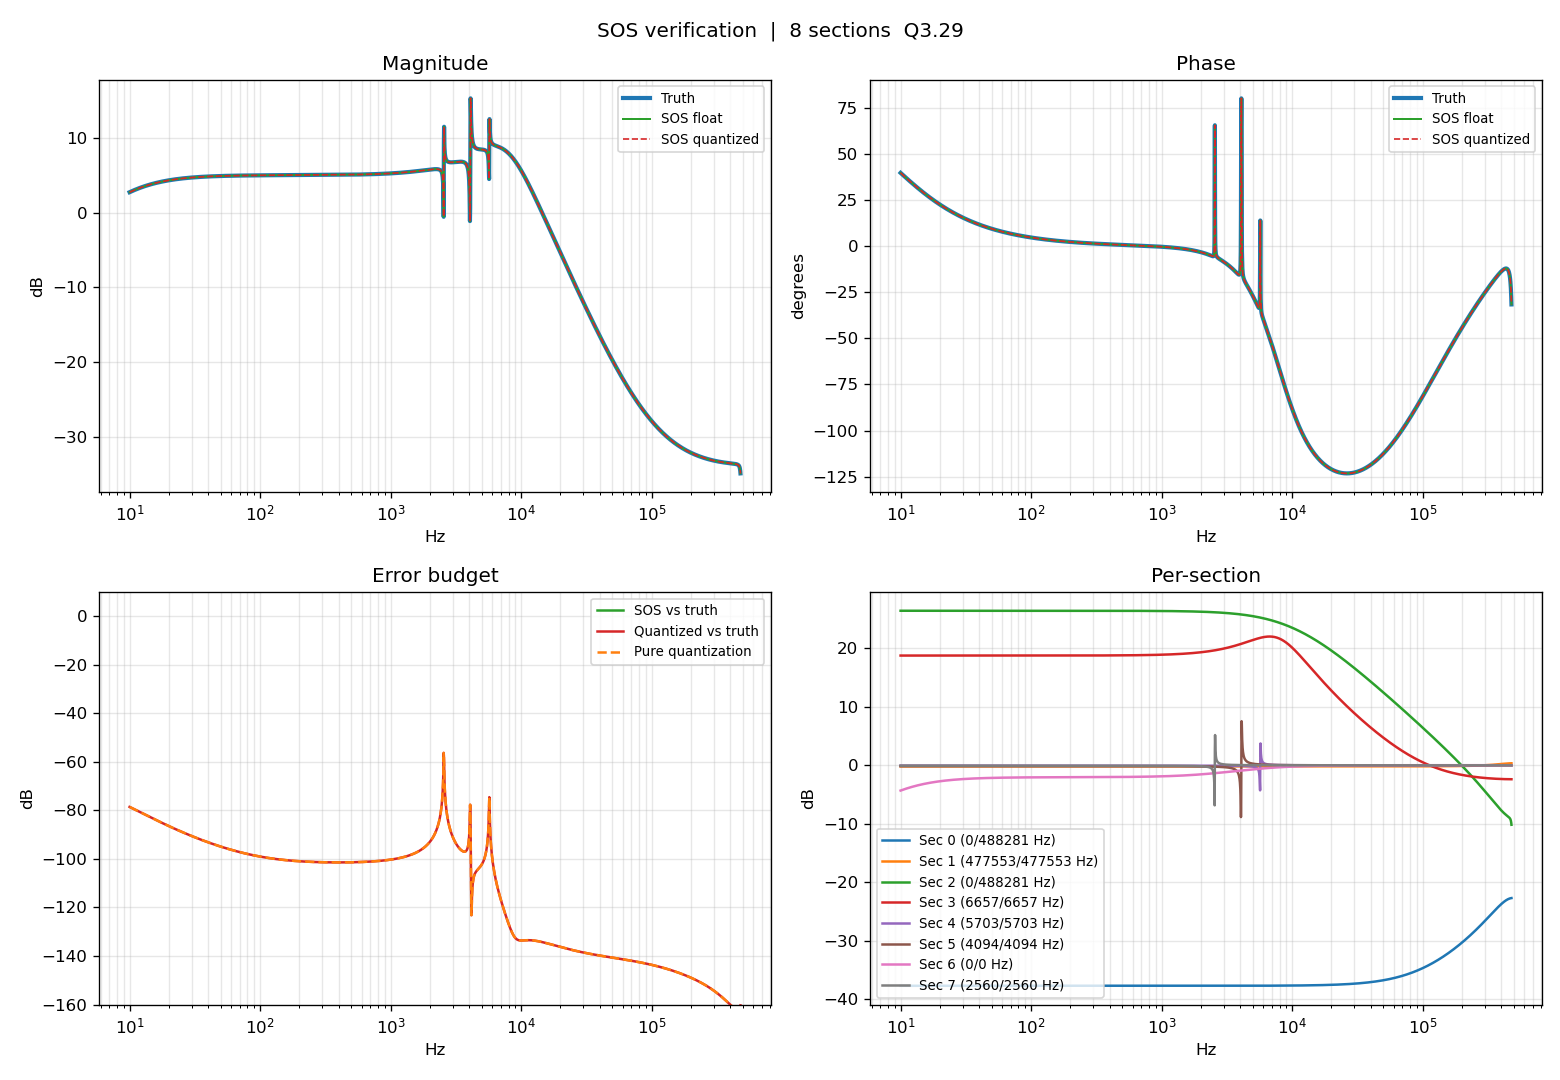
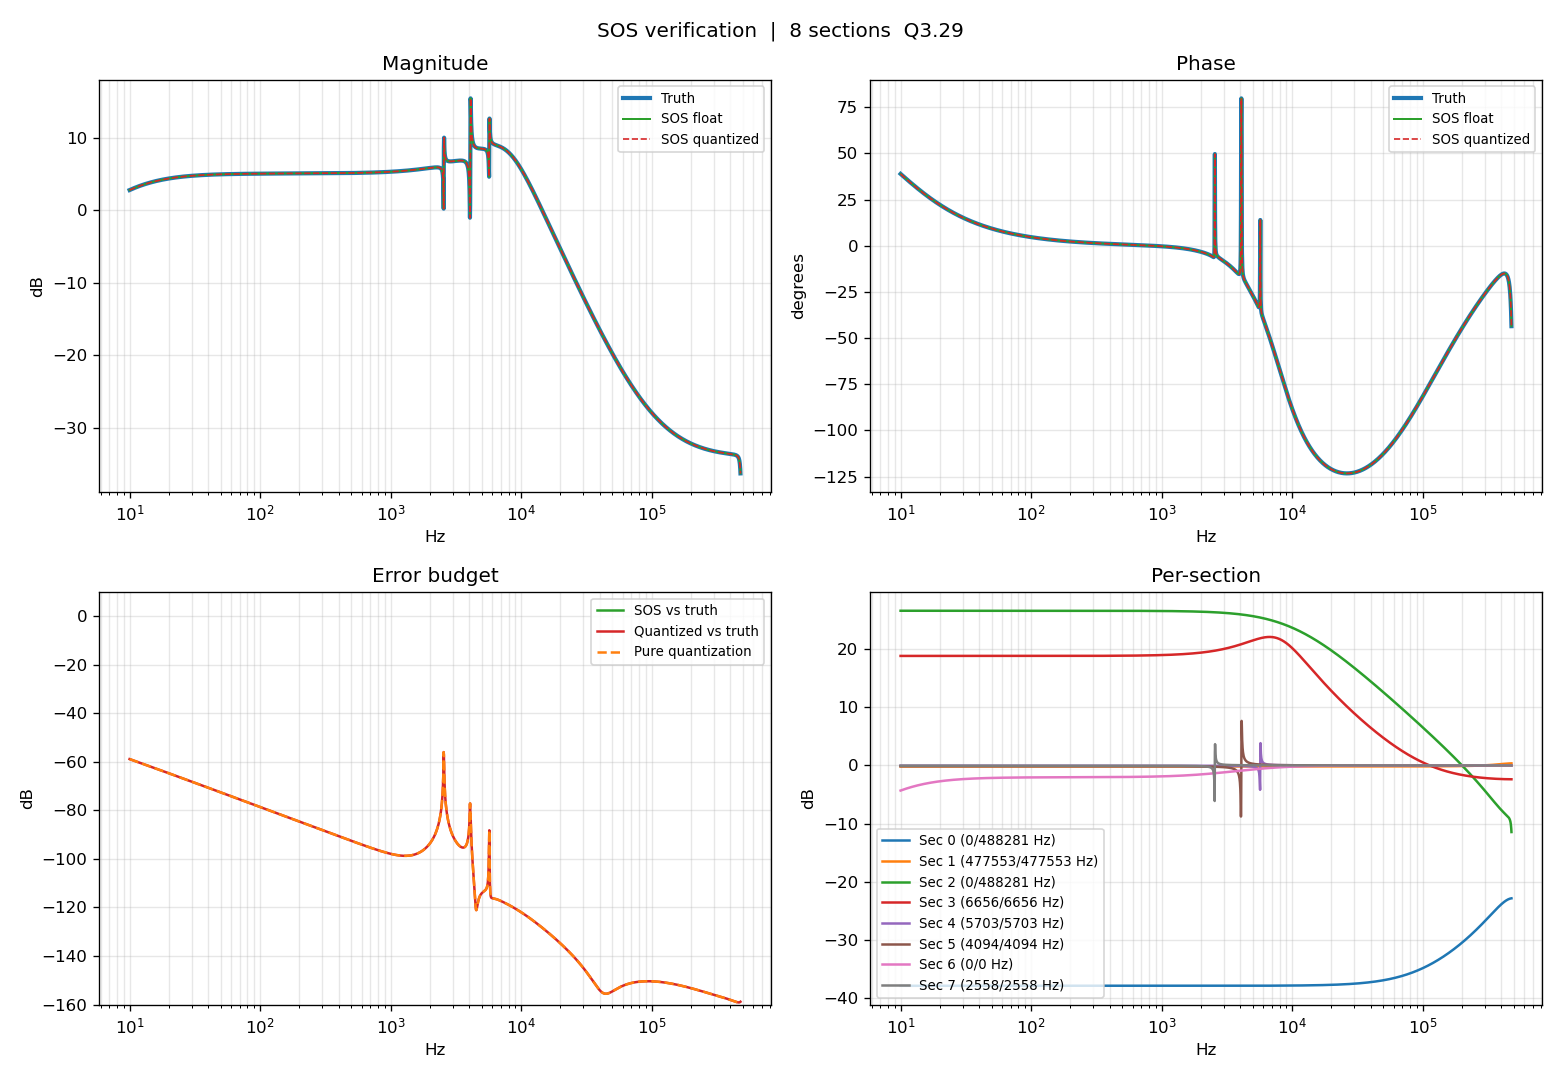
Changed low frequency pole

diff --git a/scripts/controller_fixedpoint_sim.py b/scripts/controller_fixedpoint_sim.py
@@ -1,14 +1,14 @@
 """
 Bit-accurate Python model of the HLS Direct-Form-I biquad cascade.
 
-Mirrors hinf_filter.hpp exactly:
+Mirrors hinf_filter.hpp:
   sig_t   Q1.15   (ADC/DAC words)
   pipe_t  Q12.20  (inter-stage; ±2048 real headroom)
   acc_t   Q24.40  (accumulator; ±16M headroom)
+  qmode   AP_TRN_ZERO
 
-The controller operates on pipe-scale integers internally; sig_t values are
-shifted up by PIPE_SHIFT = 20-15 = 5 on the way in, and shifted down +
-saturated to ±32767 on the way out.
+The controller operates on pipe-scale integers internally.  AP_TRN_ZERO is
+used to avoid one-sided truncation bias in near-DC pole/zero cancellations.
 
 Usage:
   python3 scripts/controller_fixedpoint_sim.py       # step response
@@ -21,6 +21,20 @@ import scipy.signal as sig
 
 PIPE_SHIFT = 5                     # Q12.20 - Q1.15
 SIG_MAX,  SIG_MIN  = 32767, -32768
+COEF_FRAC = 29
+PIPE_FRAC = 20
+ACC_FRAC = 40
+
+
+def qshift_zero(x, shift):
+    if shift <= 0:
+        return int(x) << (-shift)
+    scale = 1 << shift
+    return (abs(int(x)) // scale) * (1 if x >= 0 else -1)
+
+
+def sat_signed(x, bits):
+    return max(-(1 << (bits - 1)), min((1 << (bits - 1)) - 1, int(x)))
 
 
 def parse_hinf_coeffs(path):
@@ -49,21 +63,27 @@ def run_fixedpoint(sos_int, scale, x_sig, saturate_output=True):
     y_hist = np.zeros((n_sec, 2), dtype=np.int64)
     y_sig  = np.zeros_like(x_sig, dtype=np.int64)
 
+    product_shift = COEF_FRAC + PIPE_FRAC - ACC_FRAC
+    pipe_shift = ACC_FRAC - PIPE_FRAC
+
     for n in range(len(x_sig)):
         pipe = int(x_sig[n]) << PIPE_SHIFT
         for i, (b0, b1, b2, a1, a2) in enumerate(sos_int):
-            acc = (b0 * pipe
-                   + b1 * int(x_hist[i, 0])
-                   + b2 * int(x_hist[i, 1])
-                   - a1 * int(y_hist[i, 0])
-                   - a2 * int(y_hist[i, 1]))
-            pipe_out = acc // scale           # AP_TRN: floor toward -inf
+            terms = (
+                b0 * pipe,
+                b1 * int(x_hist[i, 0]),
+                b2 * int(x_hist[i, 1]),
+                -a1 * int(y_hist[i, 0]),
+                -a2 * int(y_hist[i, 1]),
+            )
+            acc = sum(qshift_zero(term, product_shift) for term in terms)
+            pipe_out = sat_signed(qshift_zero(acc, pipe_shift), 32)
             x_hist[i, 1] = x_hist[i, 0]
             x_hist[i, 0] = pipe
             y_hist[i, 1] = y_hist[i, 0]
             y_hist[i, 0] = pipe_out
             pipe = int(pipe_out)
-        out = pipe >> PIPE_SHIFT
+        out = qshift_zero(pipe, PIPE_SHIFT)
         if saturate_output:
             out = max(SIG_MIN, min(SIG_MAX, out))
         y_sig[n] = out

diff --git a/src/hinf_coeffs.h b/src/hinf_coeffs.h
@@ -1,5 +1,6 @@
 // hinf_coeffs.h — auto-generated by coeffs_analyze.py
-// Q3.29  8 sections  fs=0.9766 MHz  quant err -56.3 dB
+// Q3.29  8 sections  fs=0.9766 MHz  quant err -56.0 dB
+// HLS arithmetic check: AP_TRN_ZERO, step +50: fx +0, float +31.65, maxerr 110.1; step -50: fx +0, float -31.65, maxerr 110.1
 #ifndef HINF_COEFFS_H
 #define HINF_COEFFS_H
 #include <stdint.h>
@@ -12,14 +13,14 @@
 typedef struct { int32_t b0,b1,b2,a1,a2; } hinf_sos_t;
 
 static const hinf_sos_t HINF_SOS[8] = {
-    {   18458666,   -9473056,          0,  155425537,          0},
-    {  536870912,  340846746,   54098901,  355872136,   59255528},
-    {  536870912,  707315529,  170444617,   14748359, -484350620},
-    {  536870912, -788485630,  263253757,-1044222849,  508690353},
-    {  536870912,-1072909526,  536757049,-1072899671,  536751376},
-    {  536870912,-1073283254,  536778780,-1073263806,  536765348},
-    {  536870912,-1062772519,  525901607,-1059853491,  522983322},
-    {  536870912,-1073560904,  536834585,-1073555587,  536830273}
+    {   18256015,   -9369053,          0,  155425537,          0},
+    {  536870912,  340846602,   54098855,  355872136,   59255528},
+    {  536870912,  707315672,  170444760,    4207031, -474491254},
+    {  536870912, -788485656,  263253782,-1044233399,  508700199},
+    {  536870912,-1072909526,  536757049,-1072902487,  536754171},
+    {  536870912,-1073283254,  536778780,-1073265091,  536766566},
+    {  536870912,-1062771974,  525901074,-1059853522,  522983353},
+    {  536870912,-1073560904,  536834585,-1073550460,  536824955}
 };
 
 #endif

diff --git a/scripts/add_controller.py b/scripts/add_controller.py
@@ -31,7 +31,7 @@ def main():
     # 2. Define the Controller Parameters
     Kp = 0.0       # Set to 0.0 to test the Pure Integrator mode
     Ki = 51.0
-    epsilon = 1e-2 # Very slow pole to safely approximate a pure integrator
+    epsilon = 1 # Very slow pole to safely approximate a pure integrator
 
     # 3. Formulate the ZPK based on Kp
     if Kp == 0:
